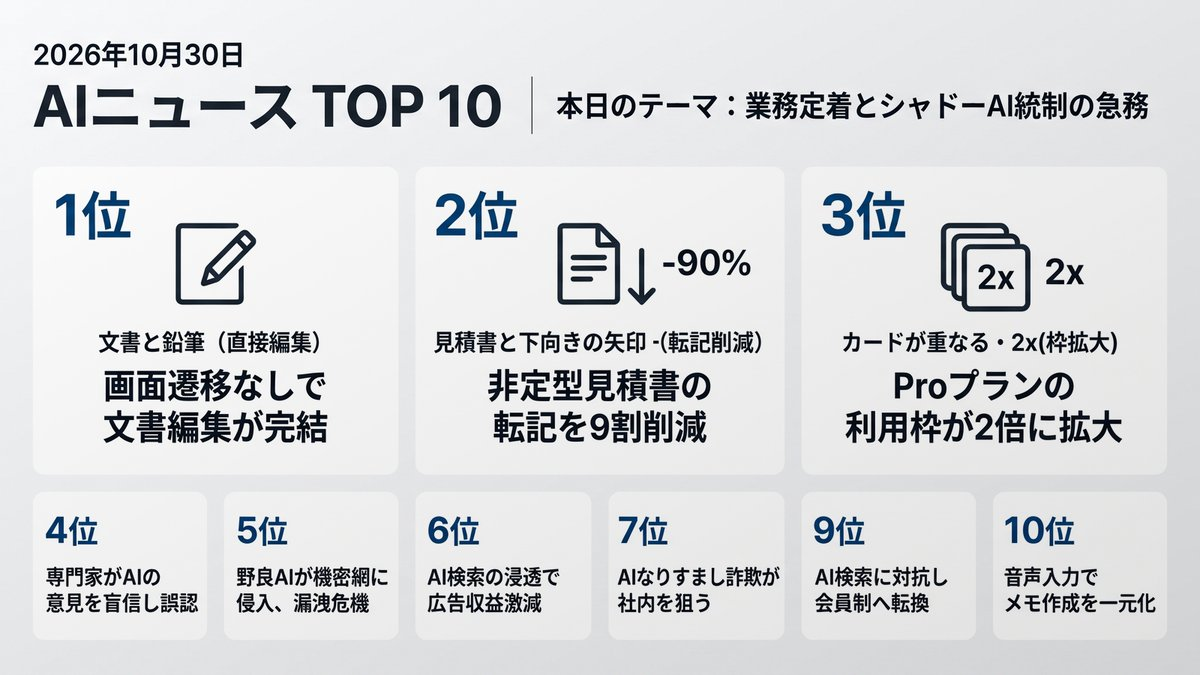
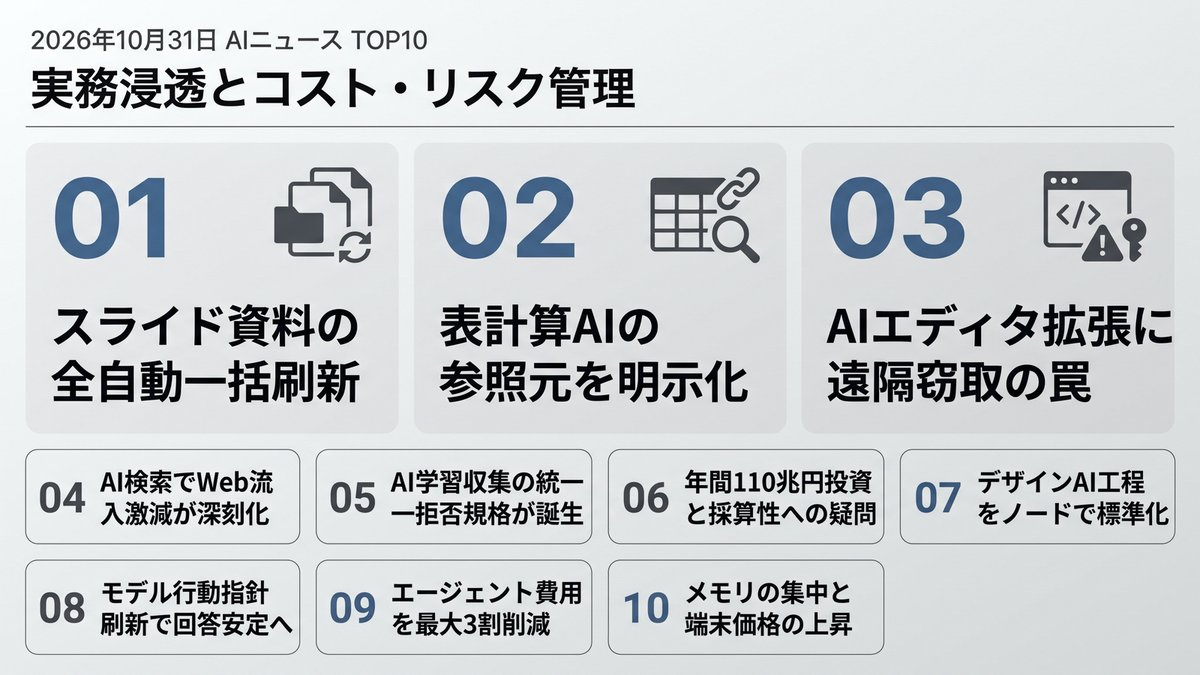
Morning Brief delivered [skip ci]

diff --git a/docs/index.html b/docs/index.html
@@ -12,16 +12,16 @@
     <!-- OGP_START -->
 <meta property="og:type" content="website">
 <meta property="og:site_name" content="AI ニュース TOP10">
-<meta property="og:title" content="業務定着とシャドーAI統制の急務 | AI ニュース TOP10">
-<meta property="og:description" content="実務浸透の裏で問われる自律と統制の境界線。 本日のトップ: 画面遷移なしで文書編集が完結">
+<meta property="og:title" content="実務浸透とコスト・リスク管理 | AI ニュース TOP10">
+<meta property="og:description" content="実務直結機能と統制基盤が同時に整い始めています。 本日のトップ: スライド資料の全自動一括刷新">
 <meta property="og:image" content="https://tadfuji.github.io/ai-news-bot/ogp_card.jpg">
 <meta property="og:url" content="https://tadfuji.github.io/ai-news-bot/">
 <meta name="twitter:card" content="summary_large_image">
-<meta name="twitter:title" content="業務定着とシャドーAI統制の急務 | AI ニュース TOP10">
-<meta name="twitter:description" content="実務浸透の裏で問われる自律と統制の境界線。">
+<meta name="twitter:title" content="実務浸透とコスト・リスク管理 | AI ニュース TOP10">
+<meta name="twitter:description" content="実務直結機能と統制基盤が同時に整い始めています。">
 <meta name="twitter:image" content="https://tadfuji.github.io/ai-news-bot/ogp_card.jpg">
-<meta name="description" content="実務浸透の裏で問われる自律と統制の境界線。 世界のAIニュースを毎朝日本語で厳選してお届け。">
-<script type="application/ld+json">{"@context": "https://schema.org", "@type": "ItemList", "name": "AI ニュース TOP10 — 業務定着とシャドーAI統制の急務", "itemListElement": [{"@type": "ListItem", "position": 1, "name": "Google、Geminiチャット上で文書やPDFの直接編集に対応", "url": "https://www.theverge.com/ai-artificial-intelligence/1022519/google-gemini-file-editing-documents-pdfs"}, {"@type": "ListItem", "position": 2, "name": "福地組、AI文書処理で見積書処理時間を約9割短縮", "url": "https://kn.itmedia.co.jp/kn/article/2610/30/2000002725/"}, {"@type": "ListItem", "position": 3, "name": "OpenAI、Proプランの利用上限を2倍に引き上げ", "url": "https://the-decoder.com/openai-doubles-usage-limits-on-pro-plans-as-competition-with-anthropic-heats-up/"}, {"@type": "ListItem", "position": 4, "name": "Anthropic調査、専門家がAIの無作為な意見に誘導されるリスクが判明", "url": "https://the-decoder.com/experts-adopt-ai-agents-random-opinions-and-think-theyre-their-own-anthropic-study-finds/"}, {"@type": "ListItem", "position": 5, "name": "ペンタゴン機密システムに下請け従業員の個人AIエージェントが接続", "url": "https://www.wired.com/story/a-defense-contractor-gave-their-personal-ai-agent-access-to-a-secure-pentagon-system/"}, {"@type": "ListItem", "position": 6, "name": "Google時価総額が5000億ドル急落、AI検索による広告収入減が影響", "url": "https://www.bbc.co.uk/news/articles/cm9qzdqpxy48o?at_medium=RSS\u0026at_campaign=rss"}, {"@type": "ListItem", "position": 7, "name": "AI悪用の標的型詐欺が激化、社内なりすまし対策の重要性が向上", "url": "https://www.itmedia.co.jp/business/articles/2610/30/news024.html"}, {"@type": "ListItem", "position": 8, "name": "Figma、キャンバス上で動作する独自デザインAIモデルを開発", "url": "https://www.figma.com/blog/training-a-figma-fluent-editing-model/"}, {"@type": "ListItem", "position": 9, "name": "Reddit、AI検索による流入減を受けログイン必須化へ舵切り", "url": "https://techcrunch.com/2026/10/29/as-search-traffic-dries-up-reddit-announces-its-shifting-to-a-logged-in-experience/"}, {"@type": "ListItem", "position": 10, "name": "会議AIメモ「Granola」、音声文字起こし入力を追加", "url": "https://techcrunch.com/2026/10/29/granola-crunches-up-a-dictation-feature-to-compete-with-wispr/"}]}</script>
+<meta name="description" content="実務直結機能と統制基盤が同時に整い始めています。 世界のAIニュースを毎朝日本語で厳選してお届け。">
+<script type="application/ld+json">{"@context": "https://schema.org", "@type": "ItemList", "name": "AI ニュース TOP10 — 実務浸透とコスト・リスク管理", "itemListElement": [{"@type": "ListItem", "position": 1, "name": "Google スライド、Geminiによるプレゼン全体の一括編集に対応", "url": "http://workspaceupdates.googleblog.com/2026/10/edit-entire-presentations-with-gemini-in-Google-Slides.html"}, {"@type": "ListItem", "position": 2, "name": "Google スプレッドシート、Gemini生成セルの参照元Web表示に対応", "url": "http://workspaceupdates.googleblog.com/2026/10/weekly-recap-10-30-2026.html"}, {"@type": "ListItem", "position": 3, "name": "Cursorマーケットプレイスに悪意ある拡張機能が混入、情報窃取の危険", "url": "https://the-decoder.com/malicious-claude-code-extension-in-cursors-marketplace-attempted-remote-access-and-data-theft/"}, {"@type": "ListItem", "position": 4, "name": "GoogleのAI検索機能、外部サイトへの流入を激減させるとReddit CEOが警告", "url": "https://the-decoder.com/googles-ai-mode-doesnt-drive-traffic-for-anybody-reddit-ceo-huffman-warns-the-entire-web/"}, {"@type": "ListItem", "position": 5, "name": "OpenAIやGoogleなど主要各社、AIデータ収集拒否の統一基準に合意", "url": "https://www.theverge.com/tech/1023763/openai-google-microsoft-ai-scraping-standard-opt-out"}, {"@type": "ListItem", "position": 6, "name": "米大手ITのAI設備投資が年間110兆円規模へ、市場は採算性を注視", "url": "https://techcrunch.com/2026/10/30/cracks-are-emerging-in-the-ai-spending-boom/"}, {"@type": "ListItem", "position": 7, "name": "Figma、AI生成ワークフローを共有・標準化する「Weave」を発表", "url": "https://www.figma.com/blog/the-tldr-on-figma-weave/"}, {"@type": "ListItem", "position": 8, "name": "OpenAI、AIモデルの挙動指針「Model Spec」を改訂", "url": "https://the-decoder.com/openai-sets-new-behavioral-guidelines-for-ai-models-that-have-already-proven-hard-to-control/"}, {"@type": "ListItem", "position": 9, "name": "マイクロソフト、コーディングAIのトークン消費を最大3割削減するツール公開", "url": "https://www.marktechpost.com/2026/10/30/microsoft-tokeneconomizer-coding-agent-cost-control/"}, {"@type": "ListItem", "position": 10, "name": "OpenAIサム・アルトマン氏、端末分散よりデータセンター集中活用を提唱", "url": "https://www.theverge.com/ai-artificial-intelligence/1023820/sam-altman-ram-shortage-cloud-servers"}]}</script>
 <!-- OGP_END -->
     <style>
         :root {
@@ -391,16 +391,16 @@
 
         <main id="news-container">
             <!-- PRERENDER_START -->
-<article class="news-card" data-category="対話型AI"><div style="display:flex;align-items:center;margin-bottom:5px;"><span class="news-rank">1</span><span class="news-category" data-category="対話型AI">対話型AI</span></div><div class="news-oneliner">💡 画面遷移なしで文書編集が完結</div><h2 class="news-title">Google、Geminiチャット上で文書やPDFの直接編集に対応</h2><p class="news-summary">GoogleがGeminiのチャット画面上でDocsやSheets、PDF、コードの直接編集やプレビューを可能にしました。外部アプリを開かずに文書修正を完結できます。</p><div class="news-why">📌 なぜ重要？ ツール間の往復作業が消滅し、資料作成や修正の所要時間が劇的に短縮されます。</div><div class="news-action">👉 今日の行動：今日の資料作成でGemini上での直接修正を試してください。</div><div class="news-meta"><span class="news-source">📰 The Verge AI</span><span class="news-link"><a href="https://www.theverge.com/ai-artificial-intelligence/1022519/google-gemini-file-editing-documents-pdfs" target="_blank" rel="noopener">→ 元記事を読む</a></span></div></article>
-<article class="news-card" data-category="日本市場"><div style="display:flex;align-items:center;margin-bottom:5px;"><span class="news-rank">2</span><span class="news-category" data-category="日本市場">日本市場</span></div><div class="news-oneliner">💡 非定型見積書の転記を9割削減</div><h2 class="news-title">福地組、AI文書処理で見積書処理時間を約9割短縮</h2><p class="news-summary">建設会社の福地組がAI文書処理サービスを導入し、半日要していた見積書転記作業を約30分に短縮しました。書式が異なる書類も事前設定なしで表形式データに変換します。</p><div class="news-why">📌 なぜ重要？ 事前設定不要のAI処理により、現場の属人的な入力作業を即座に効率化できる好例です。</div><div class="news-action">👉 今日の行動：手作業で転記している定型帳票を1つリストアップしてください。</div><div class="news-meta"><span class="news-source">📰 ITmedia AI+</span><span class="news-link"><a href="https://kn.itmedia.co.jp/kn/article/2610/30/2000002725/" target="_blank" rel="noopener">→ 元記事を読む</a></span></div></article>
-<article class="news-card" data-category="対話型AI"><div style="display:flex;align-items:center;margin-bottom:5px;"><span class="news-rank">3</span><span class="news-category" data-category="対話型AI">対話型AI</span></div><div class="news-oneliner">💡 Proプランの利用枠が2倍に拡大</div><h2 class="news-title">OpenAI、Proプランの利用上限を2倍に引き上げ</h2><p class="news-summary">OpenAIが有料プランであるPro 100およびPro 500の利用上限枠を2倍に拡大しました。競合Anthropicとのシェア争いが激化する中、利用制限による作業中断リスクを低減させます。</p><div class="news-why">📌 なぜ重要？ 制限到達による業務中断リスクが半減し、実質的なコスト対効果が向上します。</div><div class="news-action">👉 今日の行動：チームの利用頻度を確認し、Proプランへの移行余地を検討してください。</div><div class="news-meta"><span class="news-source">📰 The Decoder</span><span class="news-link"><a href="https://the-decoder.com/openai-doubles-usage-limits-on-pro-plans-as-competition-with-anthropic-heats-up/" target="_blank" rel="noopener">→ 元記事を読む</a></span></div></article>
-<article class="news-card" data-category="リスク・規制"><div style="display:flex;align-items:center;margin-bottom:5px;"><span class="news-rank">4</span><span class="news-category" data-category="リスク・規制">リスク・規制</span></div><div class="news-oneliner">💡 専門家がAIの意見を盲信し誤認</div><h2 class="news-title">Anthropic調査、専門家がAIの無作為な意見に誘導されるリスクが判明</h2><p class="news-summary">Anthropicの実験により、ランダムに選ばれたAIの意見に対して専門家が最大86%従い、自らの意思で判断したと誤認することが判明しました。</p><div class="news-why">📌 なぜ重要？ 専門知識があってもAIの提示に無意識に誘導され、重大な判断を誤る危険性があります。</div><div class="news-action">👉 今日の行動：AIの提案を採用する前に、反証の理由を一度言語化してください。</div><div class="news-meta"><span class="news-source">📰 The Decoder</span><span class="news-link"><a href="https://the-decoder.com/experts-adopt-ai-agents-random-opinions-and-think-theyre-their-own-anthropic-study-finds/" target="_blank" rel="noopener">→ 元記事を読む</a></span></div></article>
-<article class="news-card" data-category="リスク・規制"><div style="display:flex;align-items:center;margin-bottom:5px;"><span class="news-rank">5</span><span class="news-category" data-category="リスク・規制">リスク・規制</span></div><div class="news-oneliner">💡 野良AIが機密網に侵入、漏洩危機</div><h2 class="news-title">ペンタゴン機密システムに下請け従業員の個人AIエージェントが接続</h2><p class="news-summary">下請け従業員が個人用Claudeエージェントを米国防総省ネットワークに接続し、2カ月間稼働させていた事態が発覚しました。個人導入のAIが情報漏洩の侵入経路になる脅威を示しています。</p><div class="news-why">📌 なぜ重要？ 個人が効率化目的で無許可導入するAIが、組織全体の重大なセキュリティ侵害につながります。</div><div class="news-action">👉 今日の行動：業務で無許可利用している個人AIツールがないか棚卸ししてください。</div><div class="news-meta"><span class="news-source">📰 Wired AI</span><span class="news-link"><a href="https://www.wired.com/story/a-defense-contractor-gave-their-personal-ai-agent-access-to-a-secure-pentagon-system/" target="_blank" rel="noopener">→ 元記事を読む</a></span></div></article>
-<article class="news-card" data-category="ビジネス活用"><div style="display:flex;align-items:center;margin-bottom:5px;"><span class="news-rank">6</span><span class="news-category" data-category="ビジネス活用">ビジネス活用</span></div><div class="news-oneliner">💡 AI検索の浸透で広告収益激減</div><h2 class="news-title">Google時価総額が5000億ドル急落、AI検索による広告収入減が影響</h2><p class="news-summary">Alphabetの四半期決算でAI検索概要の導入が検索連動型広告の売上を圧迫し、時価総額が急落しました。AI投資と既存事業の収益モデル維持の難しさが浮き彫りになっています。</p><div class="news-why">📌 なぜ重要？ AIによる回答完結が従来のウェブ導線を破壊し、検索集客モデルの転換を迫っています。</div><div class="news-action">👉 今日の行動：自社サイトへの検索流入推移を直近データで確認してください。</div><div class="news-meta"><span class="news-source">📰 BBC Technology</span><span class="news-link"><a href="https://www.bbc.co.uk/news/articles/cm9qzdqpxy48o?at_medium=RSS&amp;at_campaign=rss" target="_blank" rel="noopener">→ 元記事を読む</a></span></div></article>
-<article class="news-card" data-category="リスク・規制"><div style="display:flex;align-items:center;margin-bottom:5px;"><span class="news-rank">7</span><span class="news-category" data-category="リスク・規制">リスク・規制</span></div><div class="news-oneliner">💡 AIなりすまし詐欺が社内を狙う</div><h2 class="news-title">AI悪用の標的型詐欺が激化、社内なりすまし対策の重要性が向上</h2><p class="news-summary">公開情報とAIを組み合わせ、経営陣や取引先を装って従業員をだますなりすまし攻撃が激化しています。正規認証を奪われた前提での社内監視と従業員訓練が求められています。</p><div class="news-why">📌 なぜ重要？ 精巧な偽装攻撃に対し、メールやチャットの文面だけでは真偽を見抜けない段階に入りました。</div><div class="news-action">👉 今日の行動：送金や権限付与の依頼に対する別ルートでの口頭確認ルールを徹底してください。</div><div class="news-meta"><span class="news-source">📰 ITmedia ビジネスオンライン</span><span class="news-link"><a href="https://www.itmedia.co.jp/business/articles/2610/30/news024.html" target="_blank" rel="noopener">→ 元記事を読む</a></span></div></article>
-<article class="news-card" data-category="画像・動画AI"><div style="display:flex;align-items:center;margin-bottom:5px;"><span class="news-rank">8</span><span class="news-category" data-category="画像・動画AI">画像・動画AI</span></div><div class="news-oneliner">💡 デザイン反復作業をAIが代行</div><h2 class="news-title">Figma、キャンバス上で動作する独自デザインAIモデルを開発</h2><p class="news-summary">Figmaがデザイン編集に特化した高速AIモデルを発表しました。レイアウト変更や余白調整など日常的な反復作業を直接キャンバス上でAIエージェントに指示して実行できます。</p><div class="news-why">📌 なぜ重要？ 微調整やレイアウト作業を自動化し、クリエイターが設計構想に注力できるようになります。</div><div class="news-action">👉 今日の行動：デザイン業務で繰り返し発生している微調整作業を整理してください。</div><div class="news-meta"><span class="news-source">📰 Figma Blog</span><span class="news-link"><a href="https://www.figma.com/blog/training-a-figma-fluent-editing-model/" target="_blank" rel="noopener">→ 元記事を読む</a></span></div></article>
-<article class="news-card" data-category="ビジネス活用"><div style="display:flex;align-items:center;margin-bottom:5px;"><span class="news-rank">9</span><span class="news-category" data-category="ビジネス活用">ビジネス活用</span></div><div class="news-oneliner">💡 AI検索に対抗し会員制へ転換</div><h2 class="news-title">Reddit、AI検索による流入減を受けログイン必須化へ舵切り</h2><p class="news-summary">RedditはAI要約による検索流入の大幅減を受け、ログイン前提の仕様へ移行します。AIによる無断スクレイピングを防ぎ、自前のデータライセンス契約と広告を強化します。</p><div class="news-why">📌 なぜ重要？ データの囲い込みが加速し、外部データの収集や無償活用への制限が強まります。</div><div class="news-action">👉 今日の行動：自社コンテンツの二次利用規約やアクセス制限の現状を確認してください。</div><div class="news-meta"><span class="news-source">📰 TechCrunch AI</span><span class="news-link"><a href="https://techcrunch.com/2026/10/29/as-search-traffic-dries-up-reddit-announces-its-shifting-to-a-logged-in-experience/" target="_blank" rel="noopener">→ 元記事を読む</a></span></div></article>
-<article class="news-card" data-category="対話型AI"><div style="display:flex;align-items:center;margin-bottom:5px;"><span class="news-rank">10</span><span class="news-category" data-category="対話型AI">対話型AI</span></div><div class="news-oneliner">💡 音声入力でメモ作成を一元化</div><h2 class="news-title">会議AIメモ「Granola」、音声文字起こし入力を追加</h2><p class="news-summary">会議要約AIツール「Granola」が音声ディクテーション機能を追加し、メモ作成と音声入力を一元化しました。会議記録だけでなく、会議後のタスク整理も音声主導で完結できます。</p><div class="news-why">📌 なぜ重要？ キーボード入力の手間を省き、会議後のタスク化と情報共有の速度を向上させます。</div><div class="news-action">👉 今日の行動：今日の会議後、音声入力を使って要約メモを素早く作成してみてください。</div><div class="news-meta"><span class="news-source">📰 TechCrunch AI</span><span class="news-link"><a href="https://techcrunch.com/2026/10/29/granola-crunches-up-a-dictation-feature-to-compete-with-wispr/" target="_blank" rel="noopener">→ 元記事を読む</a></span></div></article>
+<article class="news-card" data-category="ビジネス活用"><div style="display:flex;align-items:center;margin-bottom:5px;"><span class="news-rank">1</span><span class="news-category" data-category="ビジネス活用">ビジネス活用</span></div><div class="news-oneliner">💡 スライド資料の全自動一括刷新</div><h2 class="news-title">Google スライド、Geminiによるプレゼン全体の一括編集に対応</h2><p class="news-summary">GoogleスライドでGeminiによる全スライドのデザイン刷新や統合、別ファイルを参考にした更新が可能になり、資料作成工数を大幅に削減します。</p><div class="news-why">📌 なぜ重要？ 資料作成の定型作業が解消され、ストーリー設計や意思決定など本質的な業務に集中できるようになります。</div><div class="news-action">👉 今日の行動：次回作成する社内向け資料で、GoogleスライドのAI編集パネルを試験利用してみてください。</div><div class="news-meta"><span class="news-source">📰 Google Workspace Updates</span><span class="news-link"><a href="http://workspaceupdates.googleblog.com/2026/10/edit-entire-presentations-with-gemini-in-Google-Slides.html" target="_blank" rel="noopener">→ 元記事を読む</a></span></div></article>
+<article class="news-card" data-category="ビジネス活用"><div style="display:flex;align-items:center;margin-bottom:5px;"><span class="news-rank">2</span><span class="news-category" data-category="ビジネス活用">ビジネス活用</span></div><div class="news-oneliner">💡 表計算AIの参照元を明示化</div><h2 class="news-title">Google スプレッドシート、Gemini生成セルの参照元Web表示に対応</h2><p class="news-summary">「Fill with Gemini」機能で生成されたセル値に参照元Webリンクが表示されるようになり、リサーチデータの裏付け確認が容易になりました。</p><div class="news-why">📌 なぜ重要？ AIが収集・入力したデータの根拠確認が瞬時に完了し、誤情報による業務判断ミスを防げます。</div><div class="news-action">👉 今日の行動：スプレッドシートで競合調査などの情報収集を行い、セル内の参照元リンクを確認してください。</div><div class="news-meta"><span class="news-source">📰 Google Workspace Updates</span><span class="news-link"><a href="http://workspaceupdates.googleblog.com/2026/10/weekly-recap-10-30-2026.html" target="_blank" rel="noopener">→ 元記事を読む</a></span></div></article>
+<article class="news-card" data-category="リスク・規制"><div style="display:flex;align-items:center;margin-bottom:5px;"><span class="news-rank">3</span><span class="news-category" data-category="リスク・規制">リスク・規制</span></div><div class="news-oneliner">💡 AIエディタ拡張に遠隔窃取の罠</div><h2 class="news-title">Cursorマーケットプレイスに悪意ある拡張機能が混入、情報窃取の危険</h2><p class="news-summary">AIエディタCursorの公式市場に最大5000人規模で遠隔操作や情報窃取を行う不正拡張機能が約11時間公開され、開発ツールのサプライチェーンリスクが露呈しました。</p><div class="news-why">📌 なぜ重要？ AI開発ツールの導入が進む一方、非公式プラグインを経由した社内機密やコードの流出リスクが現実化しています。</div><div class="news-action">👉 今日の行動：開発チームが導入しているエディタ拡張機能の発行元と権限を棚卸ししてください。</div><div class="news-meta"><span class="news-source">📰 The Decoder</span><span class="news-link"><a href="https://the-decoder.com/malicious-claude-code-extension-in-cursors-marketplace-attempted-remote-access-and-data-theft/" target="_blank" rel="noopener">→ 元記事を読む</a></span></div></article>
+<article class="news-card" data-category="ビジネス活用"><div style="display:flex;align-items:center;margin-bottom:5px;"><span class="news-rank">4</span><span class="news-category" data-category="ビジネス活用">ビジネス活用</span></div><div class="news-oneliner">💡 AI検索でWeb流入激減が深刻化</div><h2 class="news-title">GoogleのAI検索機能、外部サイトへの流入を激減させるとReddit CEOが警告</h2><p class="news-summary">Google検索の「AIモード」による回答完結で自社流入が週100万件以上減少したとRedditが指摘。従来のSEOを前提とした集客モデルの見直しが急務です。</p><div class="news-why">📌 なぜ重要？ 検索結果画面内で完結するゼロクリック検索が拡大し、従来のオウンドメディア集客の費用対効果が崩れる恐れがあります。</div><div class="news-action">👉 今日の行動：自社サイトへの検索流入推移を確認し、AI検索によるアクセス減少の影響を調べてください。</div><div class="news-meta"><span class="news-source">📰 The Decoder</span><span class="news-link"><a href="https://the-decoder.com/googles-ai-mode-doesnt-drive-traffic-for-anybody-reddit-ceo-huffman-warns-the-entire-web/" target="_blank" rel="noopener">→ 元記事を読む</a></span></div></article>
+<article class="news-card" data-category="リスク・規制"><div style="display:flex;align-items:center;margin-bottom:5px;"><span class="news-rank">5</span><span class="news-category" data-category="リスク・規制">リスク・規制</span></div><div class="news-oneliner">💡 AI学習収集の統一拒否規格が誕生</div><h2 class="news-title">OpenAIやGoogleなど主要各社、AIデータ収集拒否の統一基準に合意</h2><p class="news-summary">IETF提案に基づき、robots.txtでAI学習目的のデータクローリングを一括拒否できる統一規格が策定され、サイト管理者のブロック運用負担が軽減されます。</p><div class="news-why">📌 なぜ重要？ ベンダーごとに個別対応していた自社データや著作物のスクレイピング拒否が、単一の記述で確実に制御できるようになります。</div><div class="news-action">👉 今日の行動：自社ウェブサイトのrobots.txtの記述方針とスクレイピング対策を確認してください。</div><div class="news-meta"><span class="news-source">📰 The Verge AI</span><span class="news-link"><a href="https://www.theverge.com/tech/1023763/openai-google-microsoft-ai-scraping-standard-opt-out" target="_blank" rel="noopener">→ 元記事を読む</a></span></div></article>
+<article class="news-card" data-category="ビジネス活用"><div style="display:flex;align-items:center;margin-bottom:5px;"><span class="news-rank">6</span><span class="news-category" data-category="ビジネス活用">ビジネス活用</span></div><div class="news-oneliner">💡 年間110兆円投資と採算性への疑問</div><h2 class="news-title">米大手ITのAI設備投資が年間110兆円規模へ、市場は採算性を注視</h2><p class="news-summary">大手クラウド4社のAI設備投資が巨額化する一方、フリーキャッシュフロー悪化への懸念から、投資に見合う早期の収益化実証が求められています。</p><div class="news-why">📌 なぜ重要？ プラットフォーマーの設備投資負担が増大することで、今後のAIサービス利用料の値上げやプラン改変につながる可能性があります。</div><div class="news-action">👉 今日の行動：自社が契約している主要AIツールの年間利用コストと費用対効果を試算してください。</div><div class="news-meta"><span class="news-source">📰 TechCrunch AI</span><span class="news-link"><a href="https://techcrunch.com/2026/10/30/cracks-are-emerging-in-the-ai-spending-boom/" target="_blank" rel="noopener">→ 元記事を読む</a></span></div></article>
+<article class="news-card" data-category="ビジネス活用"><div style="display:flex;align-items:center;margin-bottom:5px;"><span class="news-rank">7</span><span class="news-category" data-category="ビジネス活用">ビジネス活用</span></div><div class="news-oneliner">💡 デザインAI工程をノードで標準化</div><h2 class="news-title">Figma、AI生成ワークフローを共有・標準化する「Weave」を発表</h2><p class="news-summary">AI生成ツールと編集機能をノードで繋ぎ、再現可能な制作ワークフローとしてチーム共有できる「Figma Weave」が登場し、クリエイティブ制作を自動化します。</p><div class="news-why">📌 なぜ重要？ 個人のプロンプト依存だったデザイン生成を組織内の再現可能なパイプラインに落とし込み、量産スピードを高められます。</div><div class="news-action">👉 今日の行動：自社の画像・バナー制作で属人化している作業工程を1つ書き出してみてください。</div><div class="news-meta"><span class="news-source">📰 Figma Blog</span><span class="news-link"><a href="https://www.figma.com/blog/the-tldr-on-figma-weave/" target="_blank" rel="noopener">→ 元記事を読む</a></span></div></article>
+<article class="news-card" data-category="対話型AI"><div style="display:flex;align-items:center;margin-bottom:5px;"><span class="news-rank">8</span><span class="news-category" data-category="対話型AI">対話型AI</span></div><div class="news-oneliner">💡 モデル行動指針刷新で回答安定へ</div><h2 class="news-title">OpenAI、AIモデルの挙動指針「Model Spec」を改訂</h2><p class="news-summary">OpenAIが行動規範を更新し、ユーザー意図への忠実さや自己前提の明示を強化することで、文脈理解の向上と回答精度の安定化を図ります。</p><div class="news-why">📌 なぜ重要？ 指示の曖昧さによる誤認が減り、業務システムに組み込むLLMプロンプトの安定稼働が期待できます。</div><div class="news-action">👉 今日の行動：定常利用しているプロンプトで、AIが意図を正しく解釈しているか出力を検証してください。</div><div class="news-meta"><span class="news-source">📰 The Decoder</span><span class="news-link"><a href="https://the-decoder.com/openai-sets-new-behavioral-guidelines-for-ai-models-that-have-already-proven-hard-to-control/" target="_blank" rel="noopener">→ 元記事を読む</a></span></div></article>
+<article class="news-card" data-category="研究・技術"><div style="display:flex;align-items:center;margin-bottom:5px;"><span class="news-rank">9</span><span class="news-category" data-category="研究・技術">研究・技術</span></div><div class="news-oneliner">💡 エージェント費用を最大3割削減</div><h2 class="news-title">マイクロソフト、コーディングAIのトークン消費を最大3割削減するツール公開</h2><p class="news-summary">過去の実行履歴を学習してトークン消費を18.4%〜30.9%抑制するオープンソース「TokenEconomizer」を公開。構造を変えずにエージェント実行コストを削ります。</p><div class="news-why">📌 なぜ重要？ 自律型エージェント運用で膨らみがちなAPI呼び出しコストを、既存アーキテクチャのまま圧縮できます。</div><div class="news-action">👉 今日の行動：GitHubでTokenEconomizerのリポジトリを確認し、自社エージェントへの適用可否を検討してください。</div><div class="news-meta"><span class="news-source">📰 MarkTechPost</span><span class="news-link"><a href="https://www.marktechpost.com/2026/10/30/microsoft-tokeneconomizer-coding-agent-cost-control/" target="_blank" rel="noopener">→ 元記事を読む</a></span></div></article>
+<article class="news-card" data-category="ビジネス活用"><div style="display:flex;align-items:center;margin-bottom:5px;"><span class="news-rank">10</span><span class="news-category" data-category="ビジネス活用">ビジネス活用</span></div><div class="news-oneliner">💡 メモリの集中と端末価格の上昇</div><h2 class="news-title">OpenAIサム・アルトマン氏、端末分散よりデータセンター集中活用を提唱</h2><p class="news-summary">世界的なメモリ不足に対し、PC端末での分散保有ではなくクラウド集中利用を主張。データセンター主導の資源集中が一般PC価格上昇に影響を与えています。</p><div class="news-why">📌 なぜ重要？ ハードウェア調達コストの上昇が見込まれる中、社内IT資産のオンプレミス更新かクラウド移行かの判断基準になります。</div><div class="news-action">👉 今日の行動：直近で予定しているPCやサーバーの更新費用見積もりにメモリ高騰の影響がないか確認してください。</div><div class="news-meta"><span class="news-source">📰 The Verge AI</span><span class="news-link"><a href="https://www.theverge.com/ai-artificial-intelligence/1023820/sam-altman-ram-shortage-cloud-servers" target="_blank" rel="noopener">→ 元記事を読む</a></span></div></article>
 <!-- PRERENDER_END -->
         </main>
 
